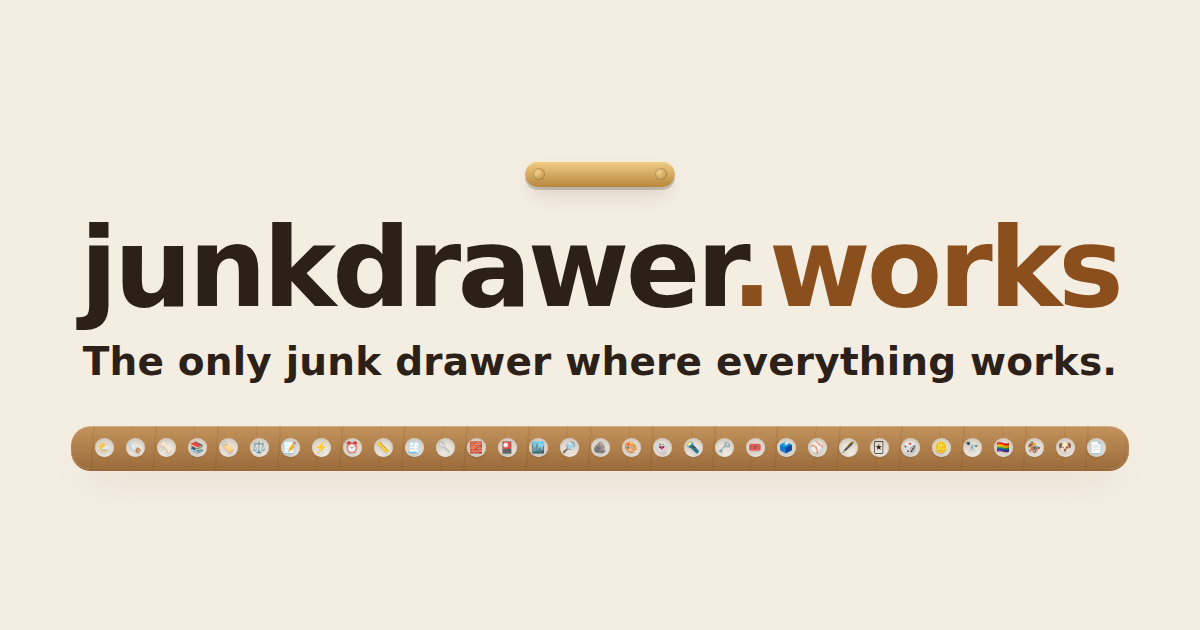
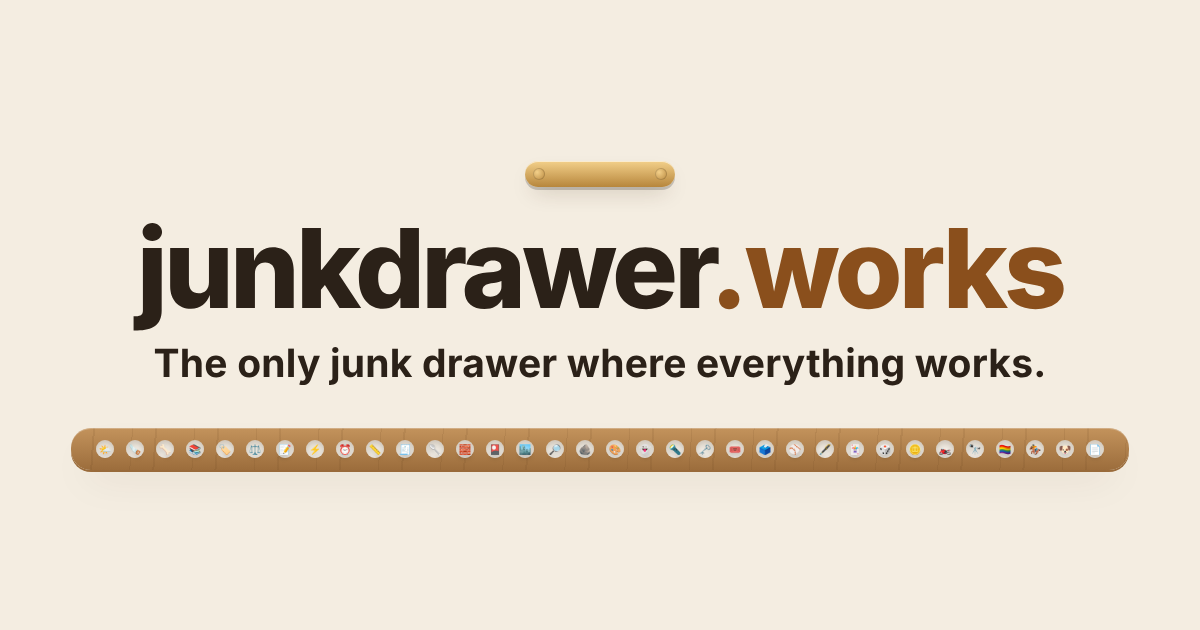
Add Grid Classic to the Games tray
Claude-Session: https://claude.ai/code/session_01RMUVMzDyDVTgy1YrgZYKkD

Changed region(s): [[0.0617, 0.3317, 0.9558, 0.6032], [0.0617, 0.6635, 0.925, 0.754]]

diff --git a/index.html b/index.html
@@ -419,6 +419,13 @@
         <p>A classic pinball table for your phone: flippers, pop bumpers, drop targets and a skill shot. Nudge to save a ball, but nudge too hard and it tilts.</p>
         <span class="go" aria-hidden="true">Open →</span>
       </a>
+      <a class="slot" href="https://grid-classic.junkdrawer.works/">
+        <span class="obj" aria-hidden="true">🏍</span>
+        <span class="label">New</span>
+        <h3>Grid Classic</h3>
+        <p>Sixteen light-cycle bots played a 1,023-game tournament. Watch any game with commentary, ride against the bots yourself, or set two of them loose in a new one.</p>
+        <span class="go" aria-hidden="true">Open →</span>
+      </a>
       </div>
     </section>
 
